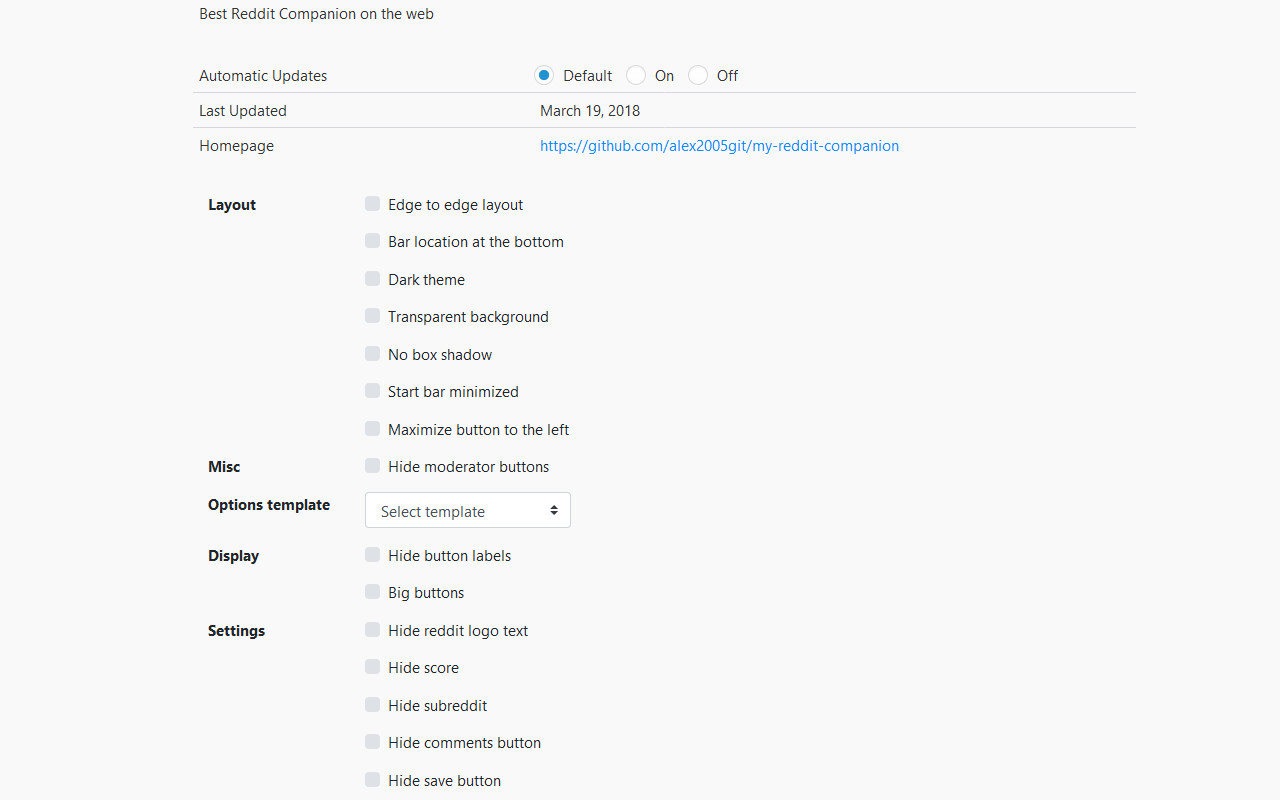
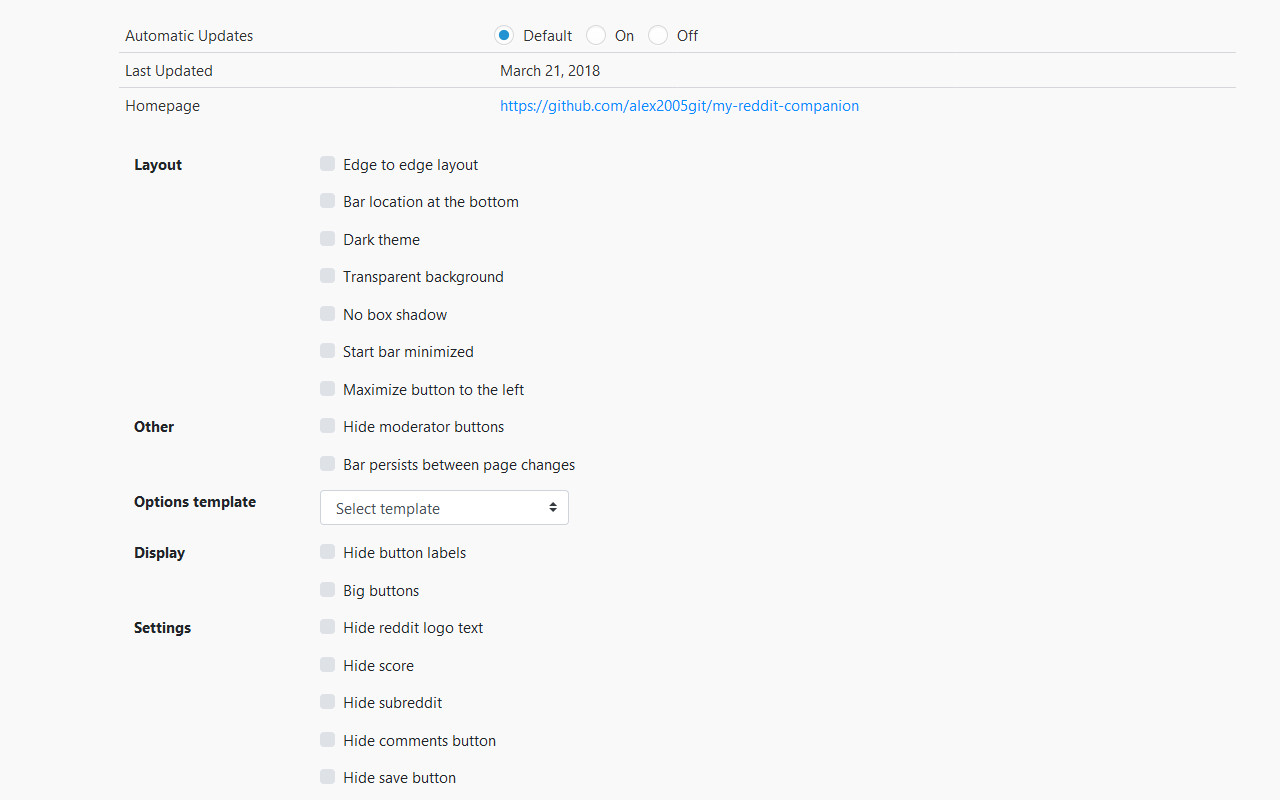
Add option for bar to persist between page changes

diff --git a/src/js/background.js b/src/js/background.js
@@ -1,4 +1,4 @@
-/* global Utils */
+/* global Utils, Options */
 
 var Background = {
     app_name: 'my_reddit_companion',
@@ -7,15 +7,16 @@ var Background = {
     garbage_collection_delay: 1000 * 60 * 5, // check every 5 minutes
     garbage_collection_check: 1000 * 60 * 60, // delete when last_updated is more than 60 minutes
     init: function () {
-        Background.resetLoggedInHash();
-        Background.resetUrlSlugData();
+        Background.initOptions();
+        Background.resetUrlsData();
 
         Background.redditLoginCheck();
         Background.garbageCollectionInterval();
     },
-    resetUrlSlugData: function () {
+    resetUrlsData: function () {
         Background.urls_data = {};
         Background.urls_redirected = {};
+        Background.urls_tab = {};
         Background.slugs_data = {};
     },
     setUrlsData: function (data) {
@@ -95,6 +96,24 @@ var Background = {
                 Utils.myConsoleLog('info', `Deleted original url '${original_url}' redirected url '${url_redirected}'`);
 
                 delete Background.urls_redirected[url_redirected];
+            }
+        }
+    },
+    setUrlTab: function (tab_id, url) {
+        if (tab_id > 0) {
+            Background.urls_tab[tab_id] = url;
+        }
+    },
+    deleteUrlsTab: function () {
+        var tab_url;
+        for (var tab_id in Background.urls_tab) {
+            tab_url = Background.urls_tab[tab_id];
+
+            // delete urls_tab when tab_url is not an index in urls_data anymore
+            if (Utils.varIsUndefined(Background.urls_data[tab_url])) {
+                Utils.myConsoleLog('info', `Deleted tab url '${tab_url}' tab id '${tab_id}'`);
+
+                delete Background.urls_tab[tab_id];
             }
         }
     },
@@ -186,9 +205,15 @@ var Background = {
 
         Background.deleteUrlsData();
         Background.deleteUrlsRedirected();
+        Background.deleteUrlsTab();
     },
     garbageCollectionInterval: function () {
         window.setInterval(Background.garbageCollectionCheck, Background.garbage_collection_delay);
+    },
+    initOptions: function () {
+        Options.getOptions(function (options) {
+            Background.options = options;
+        });
     }
 };
 
@@ -282,6 +307,8 @@ Utils.getBrowserOrChromeVar().webRequest.onBeforeRedirect.addListener(function (
 
 // on storage change send a message to all contact script tabs
 Utils.getBrowserOrChromeVar().storage.onChanged.addListener(function () {
+    Background.initOptions();
+
     Utils.myTabQuery({}, function (tabs) {
         for (var tab of tabs) {
             Utils.getBrowserOrChromeVar().tabs.sendMessage(
@@ -300,6 +327,36 @@ Utils.getBrowserOrChromeVar().browserAction.onClicked.addListener(function (tab)
         openerTabId: tab.id,
         index: tab.index + 1
     });
+});
+
+// check for tabs url changes
+Utils.getBrowserOrChromeVar().tabs.onUpdated.addListener(function (tab_id, changeInfo, tab) {
+    if (changeInfo.status === 'complete') {
+        Utils.myConsoleLog('info', `Detected tab id ${tab_id} info change`, changeInfo);
+
+        // check for tab id data
+        var tab_url = Background.urls_tab[tab_id];
+
+        if (!Utils.varIsUndefined(tab_url)) {
+            var data = Background.getUrlData(tab_url);
+
+            if (!Utils.varIsUndefined(data)) {
+                var action;
+                if (!Utils.varIsUndefined(changeInfo.url)) {
+                    action = `background_content_overlay_${Background.options.persist_bar ? 'init' : 'remove'}`;
+                }
+
+                if (!Utils.varIsUndefined(action)) {
+                    Utils.getBrowserOrChromeVar().tabs.sendMessage(
+                            tab_id, {
+                                action: action,
+                                slug: data.slug
+                            }
+                    );
+                }
+            }
+        }
+    }
 });
 
 // listen for contact scripts messages
@@ -333,6 +390,8 @@ Utils.getBrowserOrChromeVar().runtime.onMessage.addListener(function (request, s
                 Background.parentTabIsReddit(tab, function () {
                     var data = Background.getUrlData(tab.url);
                     if (data) {
+                        Background.setUrlTab(tab.id, tab.url);
+
                         if (Utils.varIsUndefined(data.bar_closed) || !data.bar_closed) {
                             sendResponse({
                                 slug: data.slug

diff --git a/src/js/content_overlay.js b/src/js/content_overlay.js
@@ -87,6 +87,19 @@ $(window).ready(function () {
                     IframeBar.setIframeClasses();
                 });
                 break;
+
+            case 'background_content_overlay_init':
+                // set a small delay to allow the DOM content to change
+                window.setTimeout(function () {
+                    if (!IframeBar.barExists()) {
+                        IframeBar.init(request.slug);
+                    }
+                }, 300);
+                break;
+
+            case 'background_content_overlay_remove':
+                IframeBar.closeBar();
+                break;
         }
     });
 });
@@ -135,5 +148,16 @@ var IframeBar = {
                 callback();
             }
         });
+    },
+    barExists: function () {
+        return $(`#${IframeBar.iframe_id}`).length > 0;
+    },
+    closeBar: function () {
+        if (IframeBar.barExists()) {
+            IframeBar.hideBar(function () {
+                $(`#${IframeBar.iframe_id}`).remove();
+                $(`#${IframeBar.stylesheet_id}`).remove();
+            });
+        }
     }
 };

diff --git a/src/js/options.js b/src/js/options.js
@@ -11,6 +11,7 @@ var Options = {
         bar_location_bottom: false,
         maximize_location_left: false,
         hide_mod_icons: false,
+        persist_bar: false,
         hide_labels: false,
         big_buttons: false,
         hide_reddit: false,
@@ -20,7 +21,7 @@ var Options = {
         hide_save: false
     },
     deleteOptions: [
-        'fluid_container', 'dark_theme', 'transparent_background', 'disable_shadow', 'start_minimized', 'bar_location_bottom', 'maximize_location_left', 'hide_mod_icons'
+        'fluid_container', 'dark_theme', 'transparent_background', 'disable_shadow', 'start_minimized', 'bar_location_bottom', 'maximize_location_left', 'hide_mod_icons', 'persist_bar'
     ],
     init: function () {
         Options.restoreOptions();

diff --git a/src/html/options.html b/src/html/options.html
@@ -82,6 +82,14 @@
                         </div>
                     </div>
                 </div>
+                <div class="form-group row">
+                    <div class="offset-sm-2 col-sm-10">
+                        <div class="custom-control custom-checkbox">
+                            <input type="checkbox" class="custom-control-input" id="option_persist_bar">
+                            <label class="custom-control-label" for="option_persist_bar">Bar persists between page changes</label>
+                        </div>
+                    </div>
+                </div>
 
                 <div class="form-group row">
                     <div class="col-sm-2 font-weight-bold">Options template</div>

diff --git a/src/html/background.html b/src/html/background.html
@@ -9,6 +9,7 @@
 
         <script type="text/javascript" src="../js/debug.js"></script>
         <script type="text/javascript" src="../js/utils.js"></script>
+        <script type="text/javascript" src="../js/options.js"></script>
         <script type="text/javascript" src="../js/background.js"></script>
     </body>
 </html>
